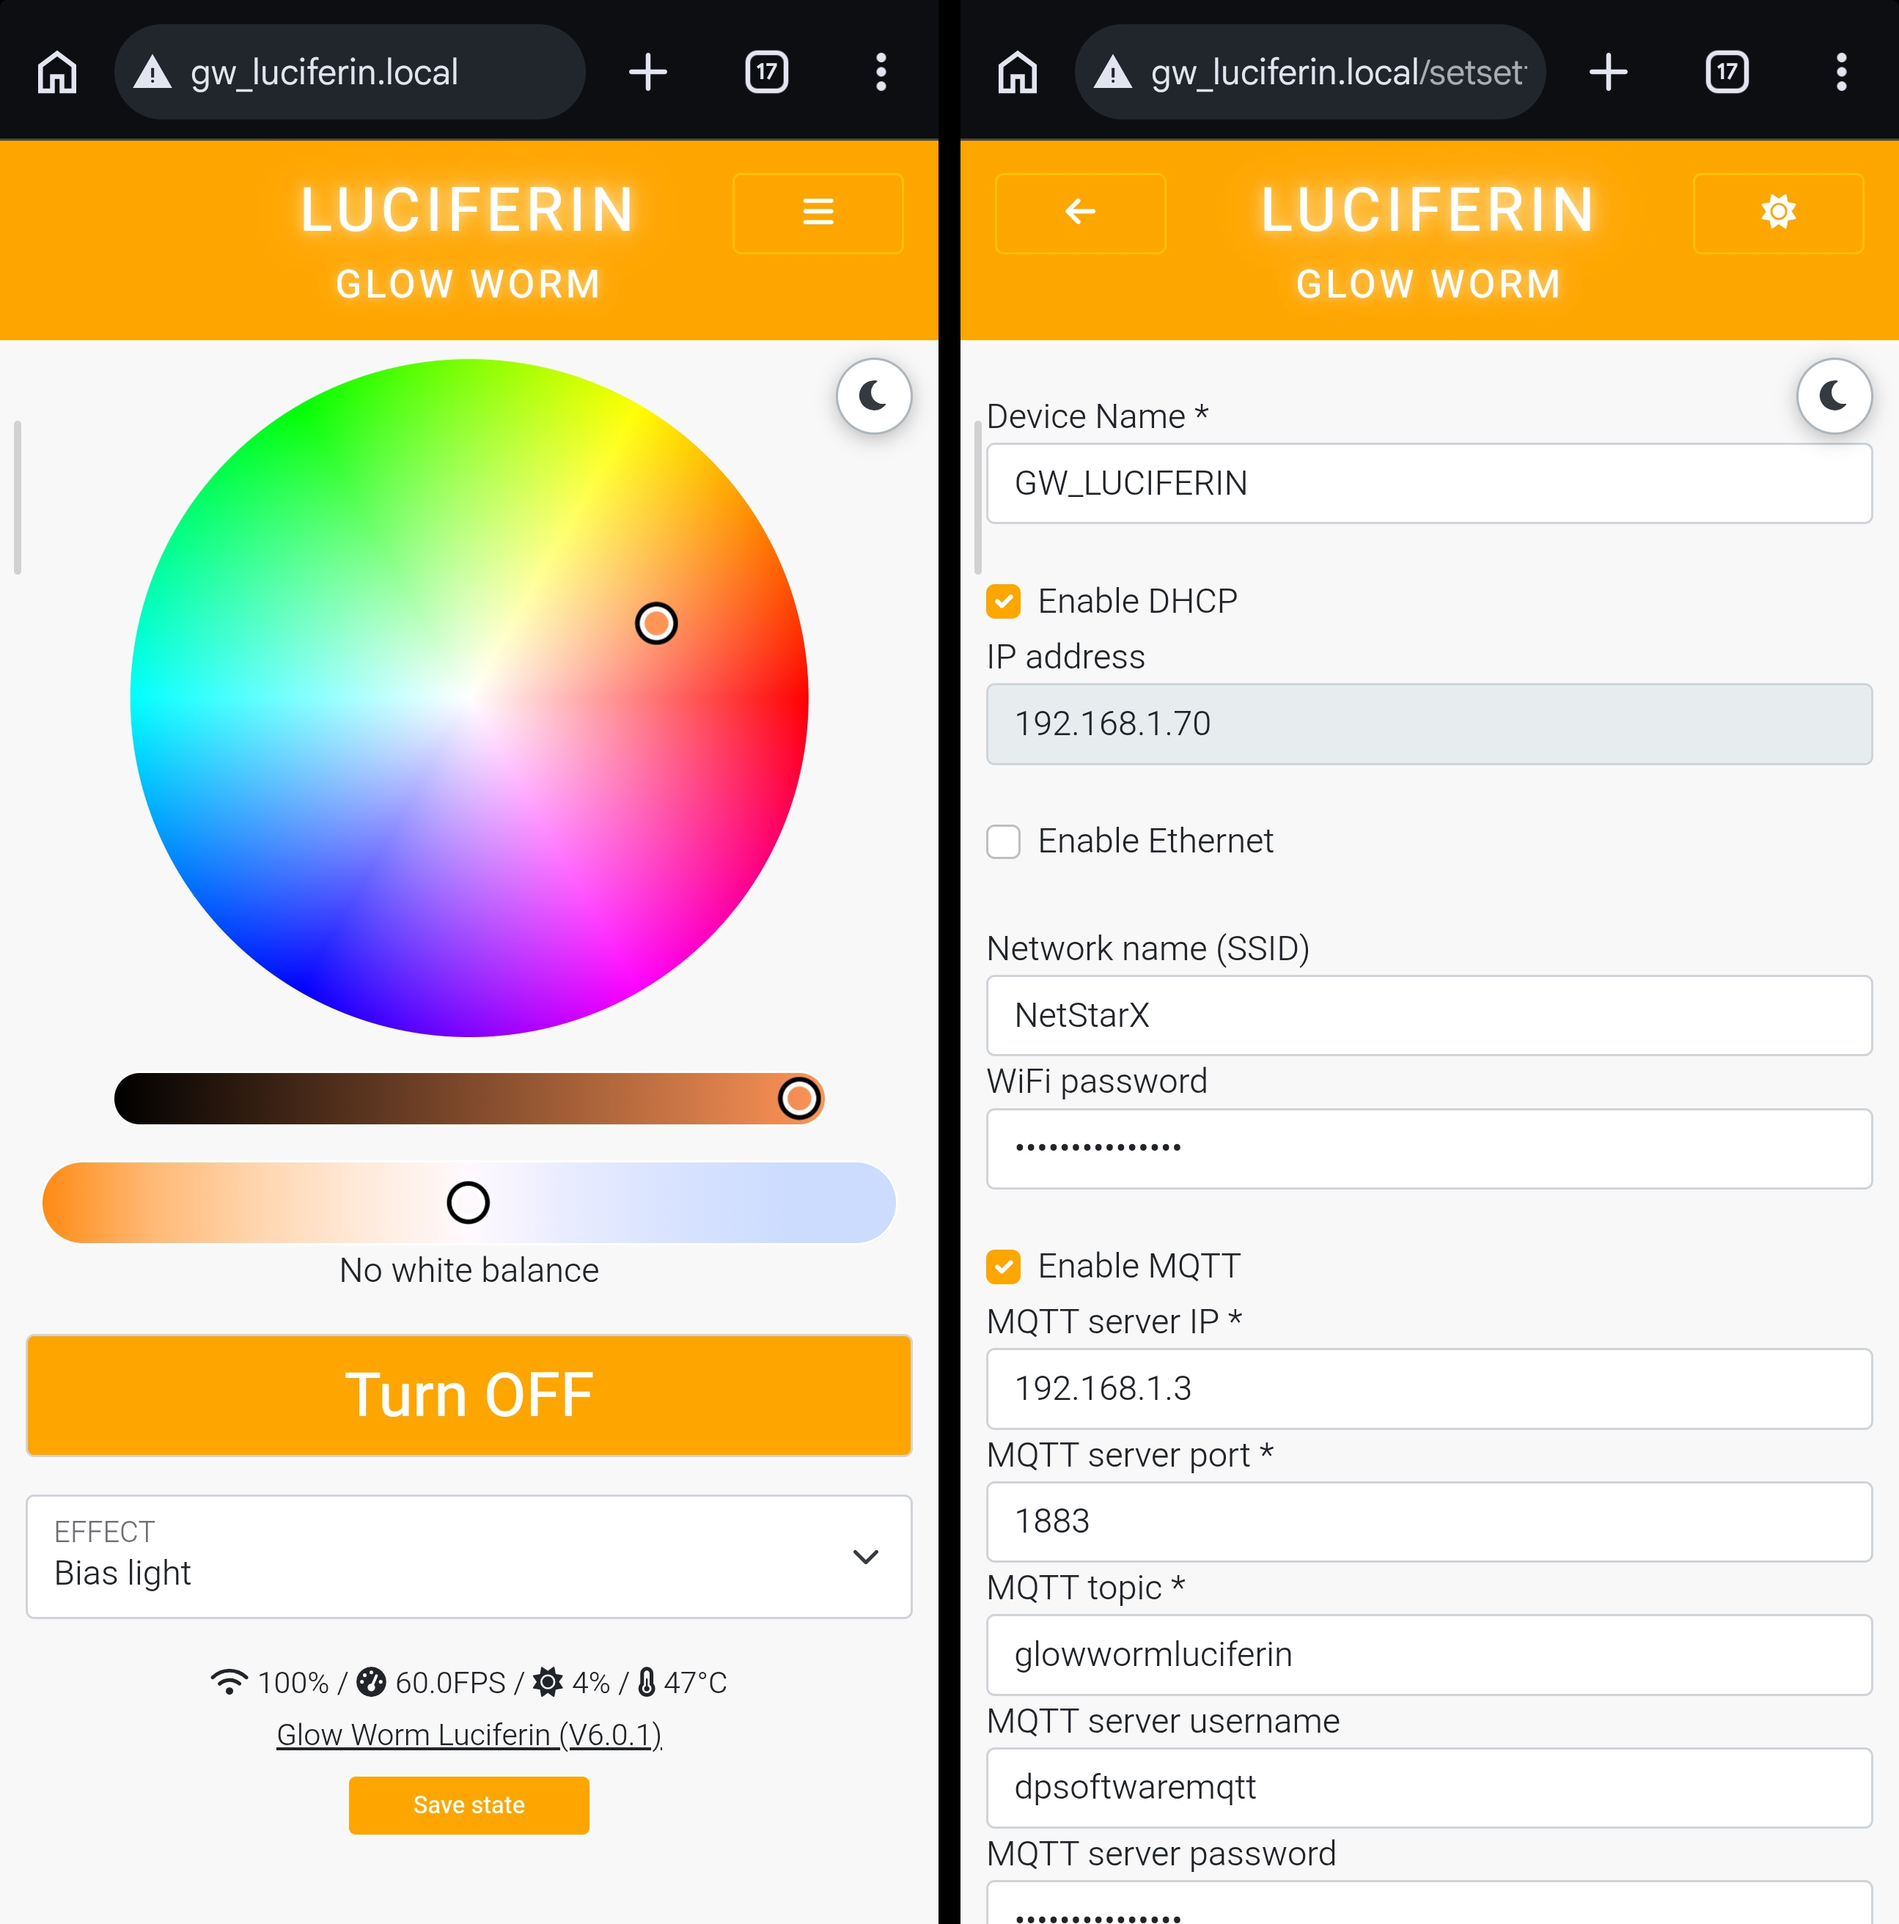
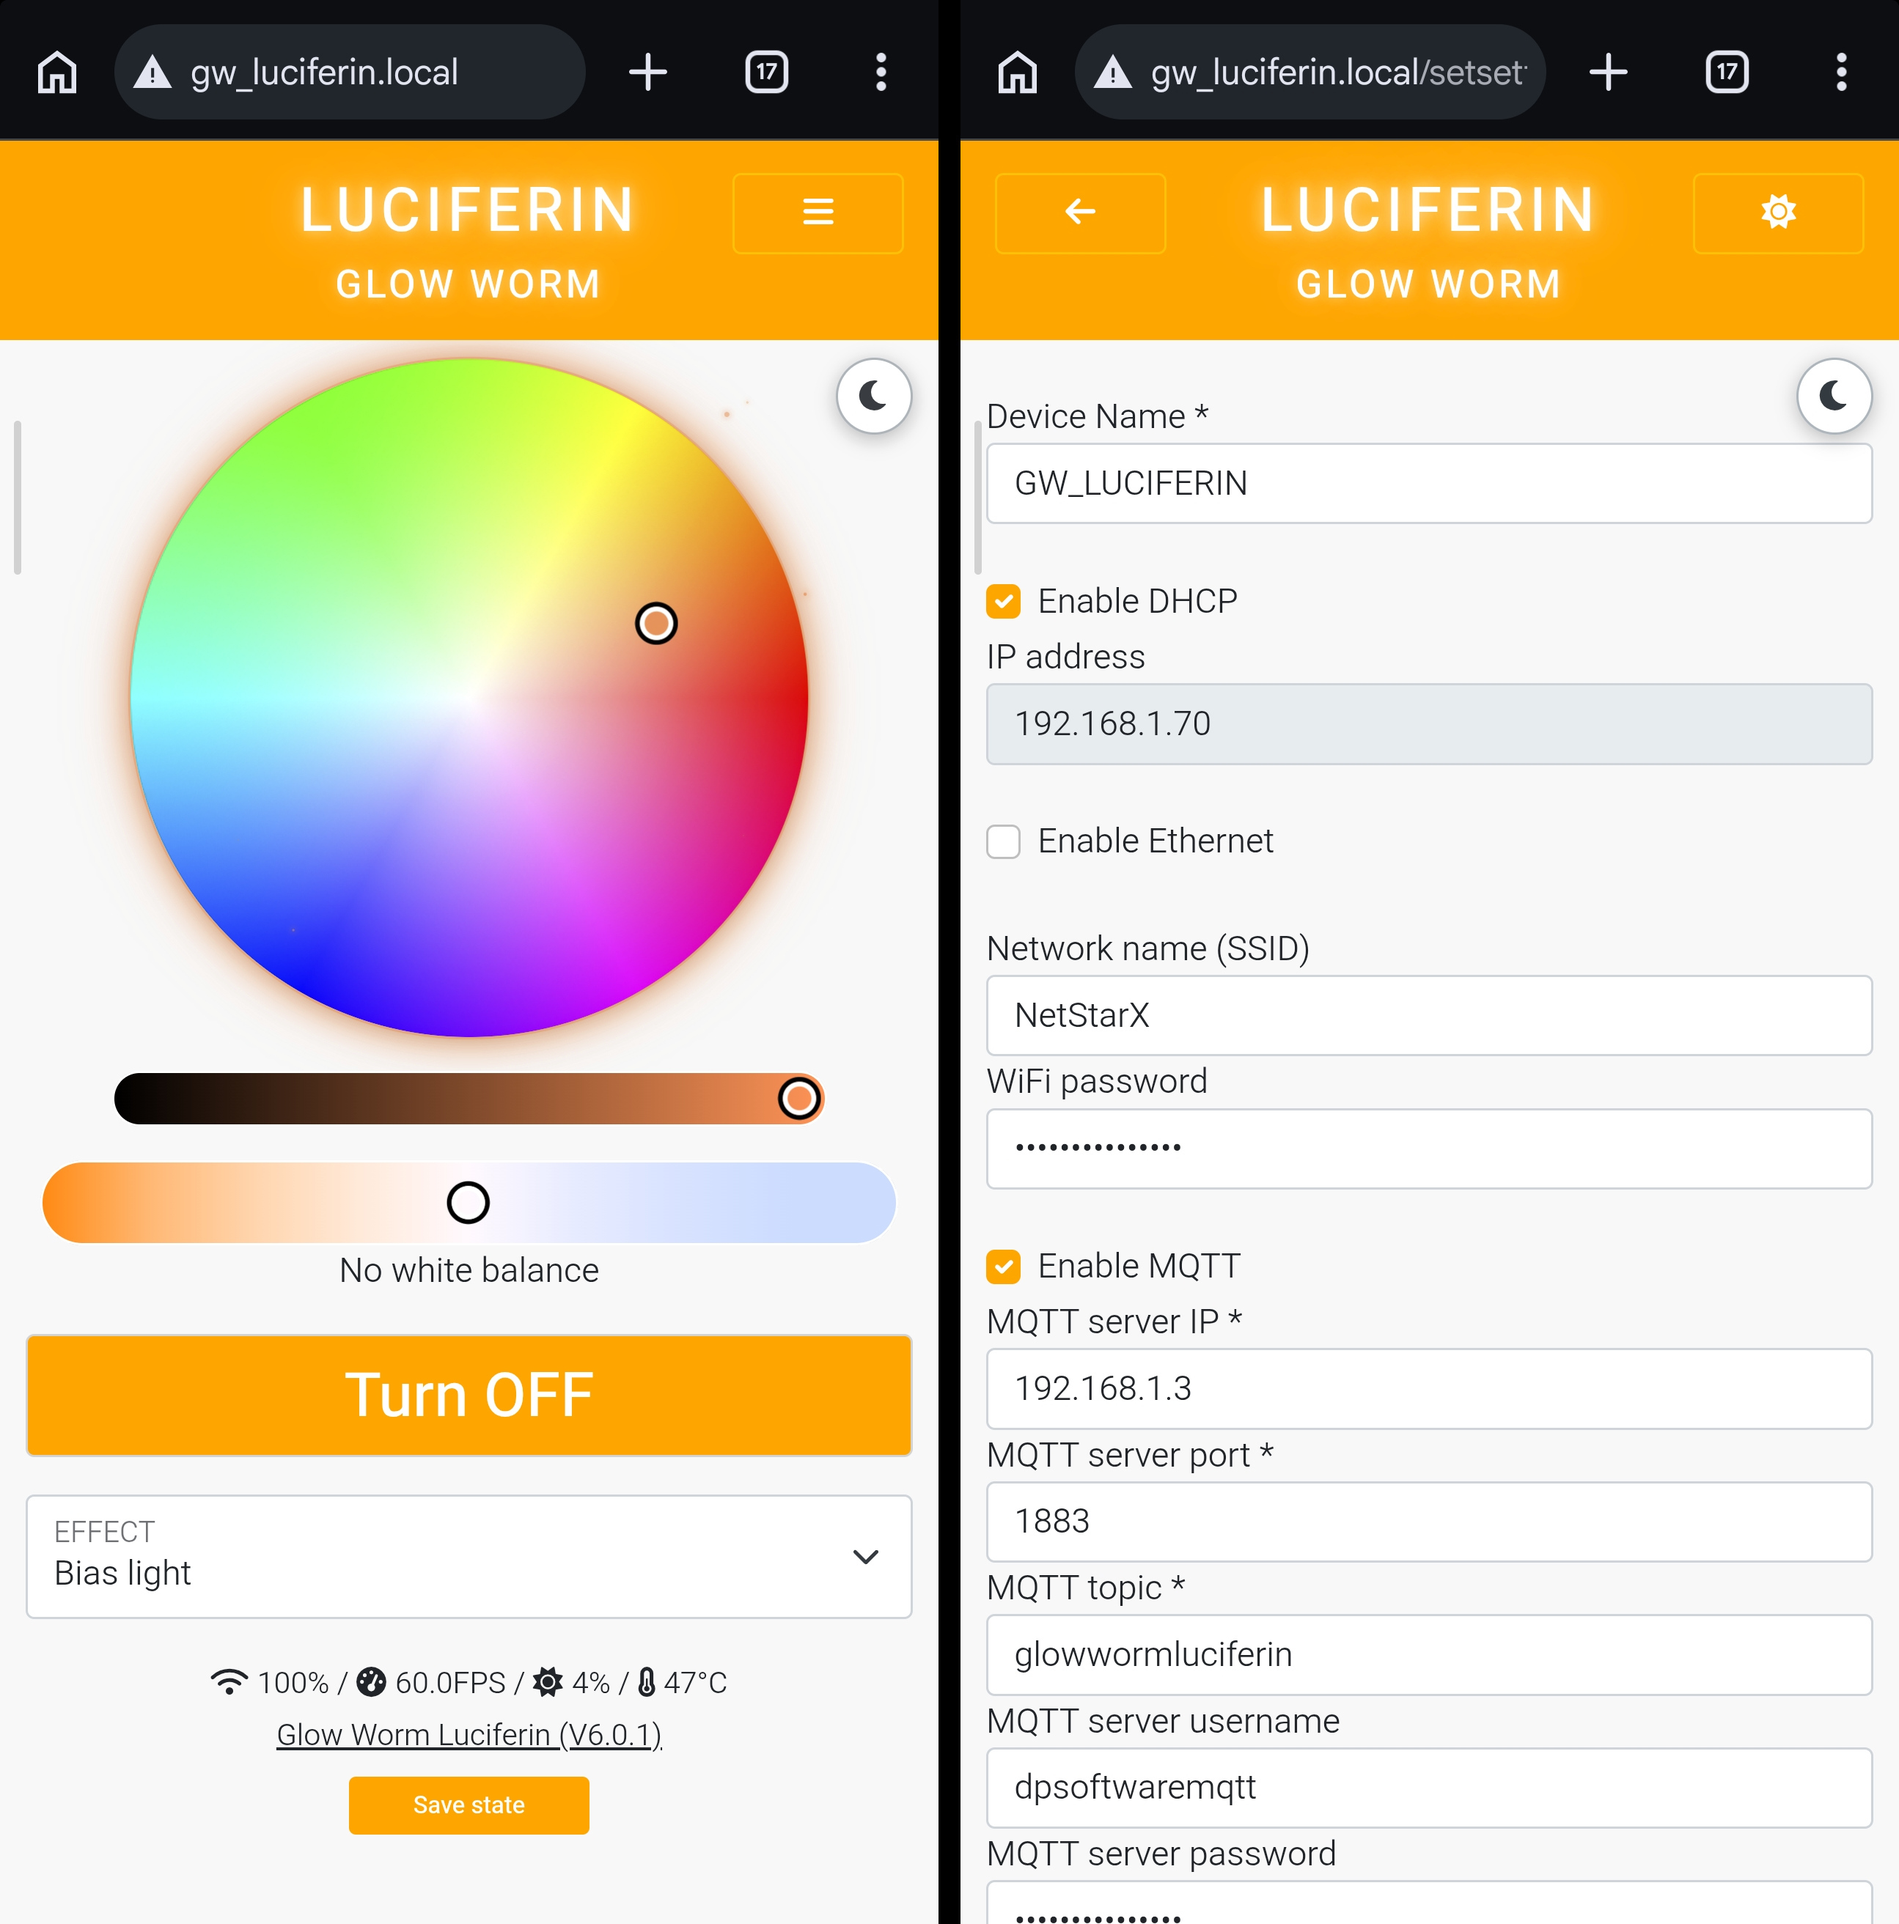
color picker particles

Changed region(s): [[0.0309, 0.1562, 0.4633, 0.5623]]

diff --git a/src/main/resources/org/dpsoftware/network/web/set-config-device.js b/src/main/resources/org/dpsoftware/network/web/set-config-device.js
@@ -323,13 +323,40 @@ export function updatePickerGlow(color) {
     }
 }
 
+// Pick a fresh point on the glow's rim and a new trajectory between emissions.
+function initPickerEmbers(pickerEl) {
+    function randomizeEmber(ember) {
+        var angle = Math.random() * Math.PI * 2;
+        ember.style.setProperty('--ember-x', (50 + Math.cos(angle) * 50) + '%');
+        ember.style.setProperty('--ember-y', (50 + Math.sin(angle) * 50) + '%');
+        var size = Math.random() < 0.2 ? 2.5 + Math.random() * 1.5 : 1 + Math.random();
+        ember.style.setProperty('--ember-size', size + 'px');
+        ember.style.setProperty('--ember-drift',
+            (Math.cos(angle) * (10 + Math.random() * 12) + Math.random() * 10 - 5) + 'px');
+        ember.style.setProperty('--ember-rise', -(44 + Math.random() * 20) + 'px');
+    }
+
+    pickerEl.querySelectorAll('.picker-embers span').forEach(function (ember) {
+        randomizeEmber(ember);
+        // Keep each particle's clock steady; changing it mid-loop can cause jumps.
+        var duration = 4 + Math.random() * 2;
+        ember.style.setProperty('--ember-duration', duration + 's');
+        ember.style.setProperty('--ember-delay', -(Math.random() * duration) + 's');
+        ember.addEventListener('animationiteration', function (event) {
+            if (event.animationName === 'picker-ember-rise') {
+                randomizeEmber(ember);
+            }
+        });
+    });
+}
+
 // Initializes the iro color picker, the LED toggle button and the output device select; color changes are pushed to the device immediately.
 export function initColorPicker() {
     var pickerEl = document.getElementById('picker');
     if (!pickerEl || typeof iro === 'undefined') {
         return;
     }
-    colorPicker = new iro.ColorPicker('#picker', {
+    colorPicker = new iro.ColorPicker('#pickerControl', {
         width: 288,
         color: '#0091ff'
     });
@@ -337,6 +364,7 @@ export function initColorPicker() {
         pickerEl.classList.toggle('lights-off', !deviceState.on);
     }
     updatePickerGlow(colorPicker.color && colorPicker.color.rgb ? colorPicker.color : lastColor);
+    initPickerEmbers(pickerEl);
     colorPicker.on('color:change', function (color) {
         updatePickerGlow(color);
     });

diff --git a/src/main/resources/org/dpsoftware/network/web/set-config.css b/src/main/resources/org/dpsoftware/network/web/set-config.css
@@ -467,8 +467,60 @@ body.server-down > :not(#offlineOverlay) {
 
 /* Color picker, fixed width to match the iro picker size. */
 #picker {
+    position: relative;
     max-width: 288px;
     margin: 0 auto;
+}
+
+/* A few tiny embers rise from the wheel's rim, inheriting its live glow color. */
+#picker .picker-embers {
+    position: absolute;
+    top: 0;
+    left: 0;
+    width: 288px;
+    height: 288px;
+    pointer-events: none;
+    z-index: 1;
+    transition: opacity 0.4s ease-in-out;
+}
+
+#picker .picker-embers span {
+    position: absolute;
+    left: var(--ember-x);
+    top: var(--ember-y);
+    width: var(--ember-size);
+    height: var(--ember-size);
+    border-radius: 50%;
+    background: var(--picker-glow-color, #0091ff);
+    box-shadow: 0 0 4px 1px rgba(var(--picker-glow-rgb, 0, 145, 255), 0.6);
+    opacity: 0;
+    animation: picker-ember-rise var(--ember-duration) linear infinite;
+    animation-delay: var(--ember-delay);
+}
+
+#picker.lights-off .picker-embers {
+    opacity: 0;
+}
+
+#picker.lights-off .picker-embers span {
+    animation-play-state: paused;
+}
+
+@keyframes picker-ember-rise {
+    0% {
+        opacity: 0;
+        transform: translate(0, 0) scale(1);
+    }
+    6% {
+        opacity: 0.85;
+    }
+    30% {
+        opacity: 0.5;
+    }
+    60%, 100% {
+        opacity: 0;
+        transform: translate(var(--ember-drift), var(--ember-rise)) scale(0.25);
+    }
 }
 
 #picker .IroWheel {
@@ -510,6 +562,14 @@ body.server-down > :not(#offlineOverlay) {
 }
 
 @media (prefers-reduced-motion: reduce) {
+    #picker .picker-embers {
+        display: none;
+    }
+
+    #picker .picker-embers span {
+        animation: none;
+    }
+
     #picker .IroWheel::after {
         animation: none;
     }

diff --git a/src/main/resources/org/dpsoftware/network/web/set-config.html b/src/main/resources/org/dpsoftware/network/web/set-config.html
@@ -107,7 +107,16 @@
         <div class="col margin-2">
             <div class="row mb-3 align-items-start justify-content-center">
                 <div class="col-12 col-sm-8 col-md-6 col-lg-4 text-center">
-                    <div id="picker"></div>
+                    <div id="picker">
+                        <div id="pickerControl"></div>
+                        <div aria-hidden="true" class="picker-embers">
+                            <span></span><span></span><span></span>
+                            <span></span><span></span><span></span>
+                            <span></span><span></span><span></span>
+                            <span></span><span></span><span></span>
+                            <span></span><span></span><span></span>
+                        </div>
+                    </div>
                     <div class="form-group mt-2"><select id="effectSelect" class="form-select w-100"></select></div>
                     <div class="form-group mt-2"><button id="toggleLED" type="button" class="btn w-100"></button></div>
                     <div id="activeProfile" class="text-center text-muted small mt-1"></div>
